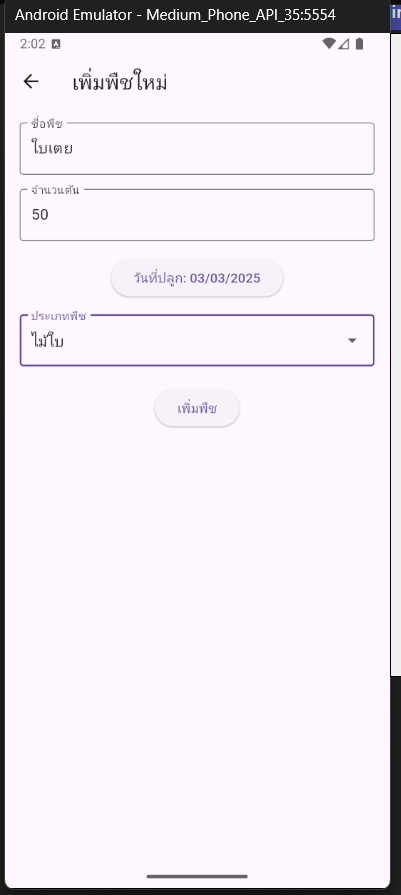
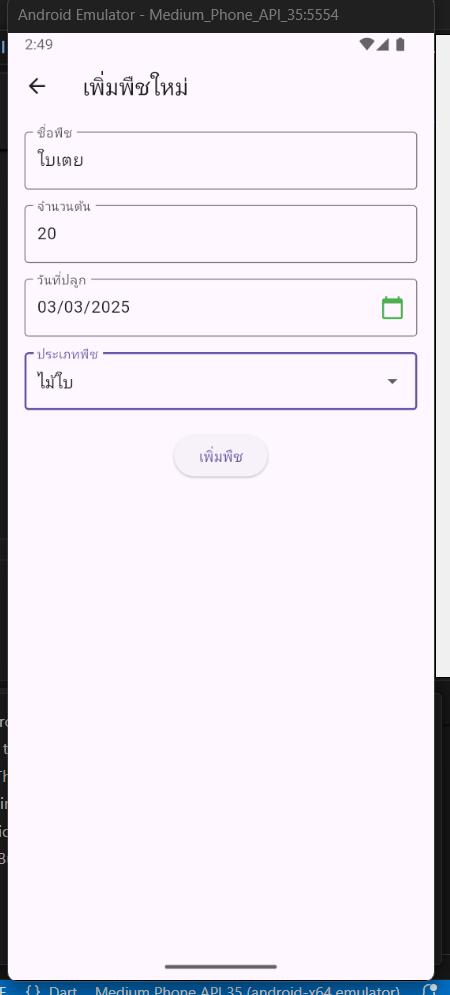
update

Changed region(s): [[0.0, 0.0, 1.0, 1.0], [0.419, 0.4525, 0.5387, 0.4827]]

diff --git a/lib/add_page.dart b/lib/add_page.dart
@@ -16,6 +16,8 @@ class _AddPageState extends State<AddPage> {
 
   final TextEditingController _nameController = TextEditingController();
   final TextEditingController _quantityController = TextEditingController();
+  final TextEditingController _dateController = TextEditingController();
+
   DateTime? _selectedDate;
   String? _selectedCategory;
 
@@ -28,6 +30,7 @@ class _AddPageState extends State<AddPage> {
       _nameController.text = widget.plant!.name;
       _quantityController.text = widget.plant!.quantity.toString();
       _selectedDate = DateFormat('yyyy-MM-dd').parse(widget.plant!.datePlanted);
+      _dateController.text = DateFormat('dd/MM/yyyy').format(_selectedDate!);
       _selectedCategory = widget.plant!.category;
     }
   }
@@ -39,9 +42,11 @@ class _AddPageState extends State<AddPage> {
       firstDate: DateTime(2000),
       lastDate: DateTime(2101),
     );
+
     if (picked != null) {
       setState(() {
         _selectedDate = picked;
+        _dateController.text = DateFormat('dd/MM/yyyy').format(picked);
       });
     }
   }
@@ -100,6 +105,7 @@ class _AddPageState extends State<AddPage> {
                 },
               ),
               const SizedBox(height: 15),
+
               TextFormField(
                 controller: _quantityController,
                 decoration: const InputDecoration(
@@ -118,13 +124,28 @@ class _AddPageState extends State<AddPage> {
                 },
               ),
               const SizedBox(height: 15),
-              ElevatedButton(
-                onPressed: () => _selectDate(context),
-                child: Text(_selectedDate == null
-                    ? "เลือกวันที่ปลูก"
-                    : "วันที่ปลูก: ${DateFormat('dd/MM/yyyy').format(_selectedDate!)}"),
+
+              // ช่องเลือกวันที่ (TextField + IconButton)
+              TextFormField(
+                controller: _dateController,
+                readOnly: true,
+                decoration: InputDecoration(
+                  labelText: "วันที่ปลูก",
+                  border: const OutlineInputBorder(),
+                  suffixIcon: IconButton(
+                    icon: const Icon(Icons.calendar_today, color: Colors.green),
+                    onPressed: () => _selectDate(context),
+                  ),
+                ),
+                validator: (value) {
+                  if (value == null || value.isEmpty) {
+                    return "กรุณาเลือกวันที่ปลูก";
+                  }
+                  return null;
+                },
               ),
               const SizedBox(height: 15),
+
               DropdownButtonFormField<String>(
                 decoration: const InputDecoration(
                   labelText: "ประเภทพืช",
@@ -150,6 +171,7 @@ class _AddPageState extends State<AddPage> {
                 },
               ),
               const SizedBox(height: 20),
+
               ElevatedButton(
                 onPressed: _submitForm,
                 child: Text(
